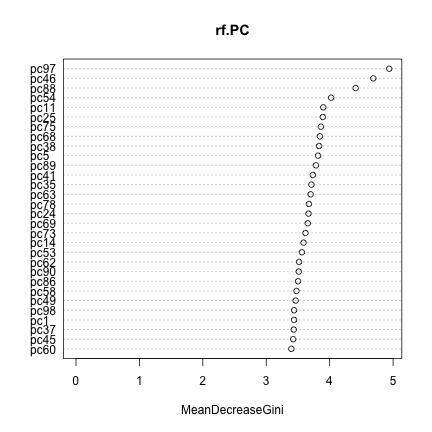
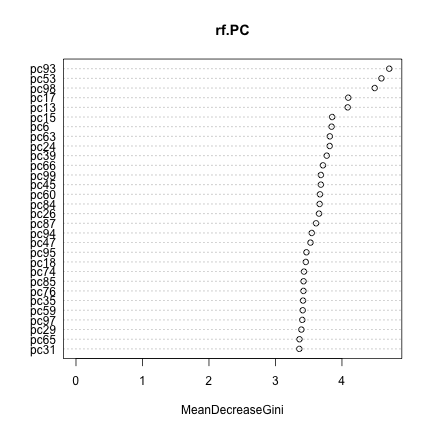
fa

diff --git a/_posts/2014-10-29-thoughts.md b/_posts/2014-10-29-thoughts.md
@@ -125,17 +125,14 @@ we have the following results:
 {% highlight r %}
 svm <- svm(y ~ ., data = d[1:800, ])
 prediction <- predict(svm, d[801:1000, ])
-svm.res <- kable(table(pred = prediction, true = d$y[801:1000]), 
-    format = "markdown")
 {% endhighlight %}
 
+and our results are fine:
 |id  |   0|   1|
 |:---|---:|---:|
-|0   |  87|   6|
-|1   |  17|  90|
-
-and our results are fine:
-|id  |   0|   1| |:---|---:|---:| |0   |  87|   6| |1   |  17|  90|
+|0   |  78|  18|
+|1   |   5|  99|
+|id  |   0|   1| |:---|---:|---:| |0   |  78|  18| |1   |   5|  99|
 
 
 Repeating this process with the principal component version of the data:
@@ -143,21 +140,14 @@ Repeating this process with the principal component version of the data:
 {% highlight r %}
 svm.PC <- svm(y ~ ., data = d.PC[1:800, ])
 prediction <- predict(svm.PC, d.PC[801:1000, ])
-svm.PC.res <- kable(table(pred = prediction, true = d.PC$y[801:1000]), 
-    format = "markdown")
 {% endhighlight %}
 
 
-
-{% highlight text %}
-|id  |    0|   1|
-|:---|----:|---:|
-|0   |    0|   0|
-|1   |  104|  96|
-{% endhighlight %}
-
-
-|id  |    0|   1| |:---|----:|---:| |0   |    0|   0| |1   |  104|  96|
+|id  |   0|    1|
+|:---|---:|----:|
+|0   |  83|  117|
+|1   |   0|    0|
+|id  |   0|    1| |:---|---:|----:| |0   |  83|  117| |1   |   0|    0|
 
 
 ##Random forests
@@ -168,21 +158,14 @@ We can repeat the process with random forests, but the results remain essentiall
 rf <- randomForest(y ~ ., data = d[1:800, ], ntree = 1000, 
     nodesize = 9, mtry = 10)
 prediction <- predict(rf, d[801:1000, ])
-rf.res <- kable(table(pred = prediction, true = d$y[801:1000]), 
-    format = "markdown")
 {% endhighlight %}
 
 
-
-{% highlight text %}
 |id  |   0|   1|
 |:---|---:|---:|
-|0   |  77|  13|
-|1   |  27|  83|
-{% endhighlight %}
-
-
-|id  |   0|   1| |:---|---:|---:| |0   |  77|  13| |1   |  27|  83|
+|0   |  78|  23|
+|1   |   5|  94|
+|id  |   0|   1| |:---|---:|---:| |0   |  78|  23| |1   |   5|  94|
 
 
 
@@ -192,31 +175,21 @@ rf.res <- kable(table(pred = prediction, true = d$y[801:1000]),
 
 <img src="../images/10-29-thoughts-impplot.png" title="plot of chunk impplot" alt="plot of chunk impplot" style="display: block; margin: auto;" />
 
-
 <!-- randomForest: R code (No Results in Document) -->
 
 {% highlight r %}
 rf.PC <- randomForest(y ~ ., data = d.PC[1:800, ], 
     ntree = 1000, nodesize = 9, mtry = 10)
 prediction <- predict(rf.PC, d.PC[801:1000, ])
-rf.PC.res <- kable(table(pred = prediction, true = d.PC$y[801:1000]), 
-    format = "markdown")
-{% endhighlight %}
-
-
-
-{% highlight text %}
-|id  |   0|   1|
-|:---|---:|---:|
-|0   |  32|  32|
-|1   |  72|  64|
 {% endhighlight %}
 
 the results are garbage:
-|id  |   0|   1| |:---|---:|---:| |0   |  32|  32| |1   |  72|  64|
+|id  |   0|   1|
+|:---|---:|---:|
+|0   |  45|  54|
+|1   |  38|  63|
 
 and the importance plot is not about to help:
-
 
 {% highlight r %}
    varImpPlot(rf.PC)
